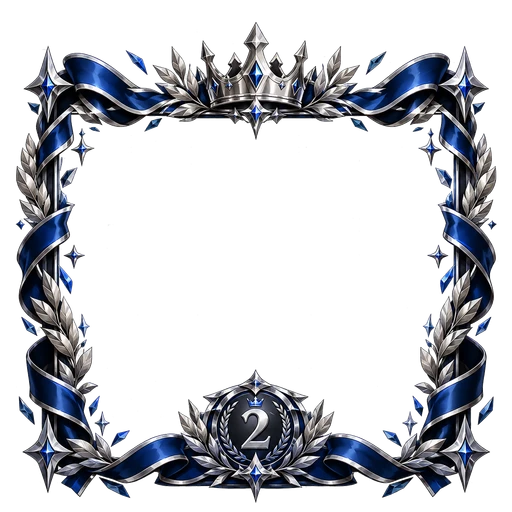
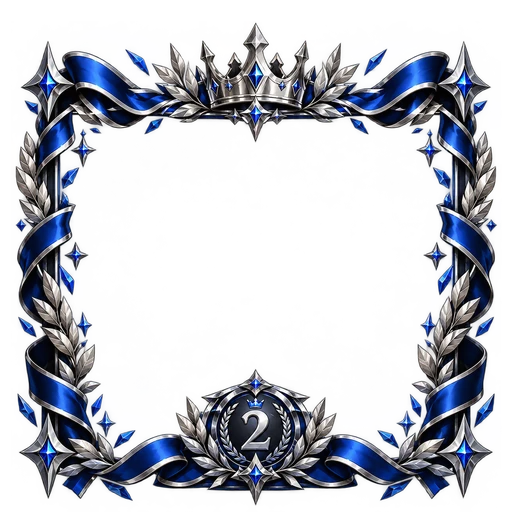
feat: fix title

Changed region(s): [[0.0312, 0.0625, 0.9688, 0.9688]]

diff --git a/apps/web/src/frames.ts b/apps/web/src/frames.ts
@@ -12,7 +12,7 @@ const AWARDS: Frame[] = [
   { id: 'top3', kind: 'award', label: l10n('3-е место', '3-тє місце', '3rd place') },
 ]
 
-const OTHERS: Frame[] = [{ id: 'top10', kind: 'other', label: l10n('Топ-10', 'Топ-10', 'Top 10') }]
+const OTHERS: Frame[] = [{ id: 'top10', kind: 'other', label: l10n('Розы', 'Троянди', 'Roses') }]
 
 const WORLDS = ['berserk', 'ff', 'naruto', 'onepiece', 'bleach', 'kny', 'aot', 'jjk', 'csm', 'tg', 'hxh', 'jojo']
 
